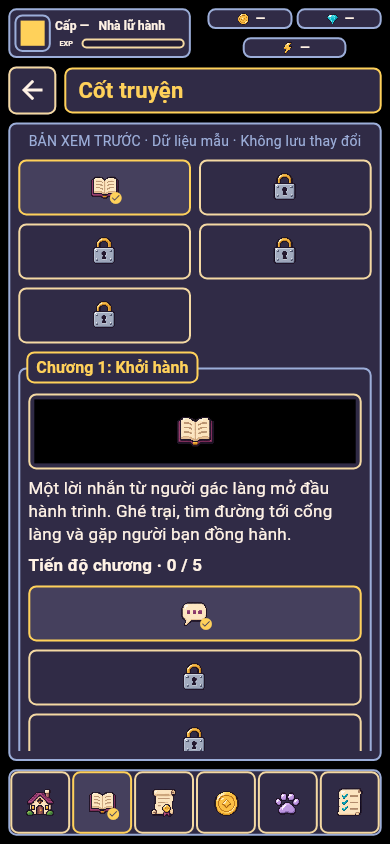
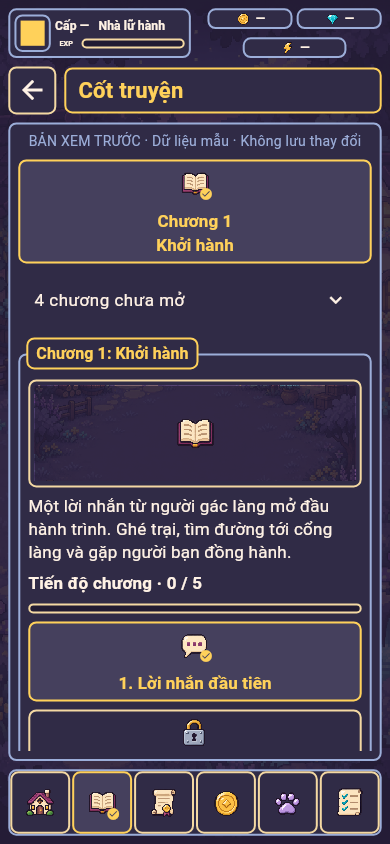
feat: make story chapters readable at a glance
Show names on content cards while preserving compact HUD controls. Collapse locked chapters so the current story stays near the top on phones, and reuse the twilight vignette with a clear progress track.

diff --git a/lib/features/story/presentation/story_screen.dart b/lib/features/story/presentation/story_screen.dart
@@ -21,22 +21,38 @@ class StoryScreen extends StatelessWidget {
     selected: 'story',
     onNavigate: onNavigate,
     child: MenuColumns(
-      leading: MenuGrid(
+      leading: Column(
+        crossAxisAlignment: CrossAxisAlignment.stretch,
+        spacing: 8,
         children: [
-          for (final (index, title) in const [
-            'Khởi hành',
-            'Bên kia đồi',
-            'Lối mòn cũ',
-            'Chân trời mới',
-            'Lời kết',
-          ].indexed)
-            MenuButton(
-              label:
-                  'Chương ${index + 1}\n$title${index == 0 ? '' : '\nĐã khóa'}',
-              icon: index == 0 ? PixelIconKind.story : PixelIconKind.lock,
-              selected: index == 0,
-              onPressed: index == 0 ? () => onNavigate('story') : null,
-            ),
+          MenuButton(
+            label: 'Chương 1\nKhởi hành',
+            icon: PixelIconKind.story,
+            showLabel: true,
+            selected: true,
+            onPressed: () => onNavigate('story'),
+          ),
+          ExpansionTile(
+            title: const Text('4 chương chưa mở'),
+            children: [
+              MenuGrid(
+                children: [
+                  for (final (index, title) in const [
+                    'Bên kia đồi',
+                    'Lối mòn cũ',
+                    'Chân trời mới',
+                    'Lời kết',
+                  ].indexed)
+                    MenuButton(
+                      label: 'Chương ${index + 2}\n$title\nĐã khóa',
+                      showLabel: true,
+                      icon: PixelIconKind.lock,
+                      onPressed: null,
+                    ),
+                ],
+              ),
+            ],
+          ),
         ],
       ),
       detail: MenuPanel(
@@ -50,6 +66,7 @@ class StoryScreen extends StatelessWidget {
               'Một lời nhắn từ người gác làng mở đầu hành trình. Ghé trại, tìm đường tới cổng làng và gặp người bạn đồng hành.',
             ),
             const Text('Tiến độ chương · 0 / 5', style: GameTypography.heading),
+            const PixelProgress(value: 0, label: 'Tiến độ chương mẫu'),
             for (final (index, title) in const [
               'Lời nhắn đầu tiên',
               'Dấu vết bên đường',
@@ -59,6 +76,7 @@ class StoryScreen extends StatelessWidget {
             ].indexed)
               MenuButton(
                 label: '${index + 1}. $title${index == 0 ? '' : ' · Đã khóa'}',
+                showLabel: true,
                 icon: index == 0 ? PixelIconKind.talk : PixelIconKind.lock,
                 selected: index == 0,
                 onPressed: index == 0 ? onStart : null,

diff --git a/lib/app/presentation/menu_button.dart b/lib/app/presentation/menu_button.dart
@@ -13,12 +13,16 @@ class MenuButton extends StatelessWidget {
     this.selected = false,
     this.icon,
     this.artworkScale = 1,
+    this.showLabel = false,
     super.key,
   });
   final String label;
   final VoidCallback? onPressed;
   final bool selected;
   final PixelIconKind? icon;
+
+  /// Content cards show names; compact HUD actions keep tooltip-only labels.
+  final bool showLabel;
 
   /// Scales the icon only; border geometry compensates for the outer projection.
   final double artworkScale;
@@ -28,7 +32,7 @@ class MenuButton extends StatelessWidget {
     message: label,
     excludeFromSemantics: true,
     child: Semantics(
-      label: icon == null ? null : label,
+      label: icon == null || showLabel ? null : label,
       selected: selected,
       child: TextButton(
         style: TextButton.styleFrom(
@@ -48,16 +52,23 @@ class MenuButton extends StatelessWidget {
         onPressed: onPressed,
         child: icon == null
             ? Text(label, textAlign: TextAlign.center)
-            : Stack(
-                alignment: Alignment.center,
+            : Column(
+                mainAxisSize: MainAxisSize.min,
+                spacing: 8,
                 children: [
-                  PixelIcon(icon!, size: 36 * artworkScale),
-                  if (selected)
-                    const Positioned(
-                      right: 0,
-                      bottom: 0,
-                      child: Icon(Icons.check_circle, size: 14),
-                    ),
+                  Stack(
+                    alignment: Alignment.center,
+                    children: [
+                      PixelIcon(icon!, size: 36 * artworkScale),
+                      if (selected)
+                        const Positioned(
+                          right: 0,
+                          bottom: 0,
+                          child: Icon(Icons.check_circle, size: 14),
+                        ),
+                    ],
+                  ),
+                  if (showLabel) Text(label, textAlign: TextAlign.center),
                 ],
               ),
       ),

diff --git a/lib/app/presentation/menu_preview.dart b/lib/app/presentation/menu_preview.dart
@@ -2,8 +2,9 @@ import 'package:flutter/material.dart';
 
 import 'pixel/pixel_frame.dart';
 import 'pixel/pixel_icon.dart';
+import 'village_backdrop.dart';
 
-/// A bounded scene placeholder using the same black window as Home's minimap.
+/// Compact illustrated chapter vignette with a foreground atlas emblem.
 class MenuPreview extends StatelessWidget {
   const MenuPreview({required this.icon, super.key});
   final PixelIconKind icon;
@@ -12,10 +13,15 @@ class MenuPreview extends StatelessWidget {
   Widget build(BuildContext context) => PixelFrame(
     padding: const EdgeInsets.all(4),
     child: SizedBox(
-      height: 64,
-      child: ColoredBox(
-        color: Colors.black,
-        child: Center(child: PixelIcon(icon, size: 48)),
+      height: 96,
+      child: ClipRect(
+        child: Stack(
+          fit: StackFit.expand,
+          children: [
+            const VillageBackdrop(dimmed: true),
+            Center(child: PixelIcon(icon, size: 48)),
+          ],
+        ),
       ),
     ),
   );

diff --git a/test/app/presentation/menu_button_test.dart b/test/app/presentation/menu_button_test.dart
@@ -5,6 +5,28 @@ import 'package:pixel_rpg/app/presentation/pixel/pixel_icon.dart';
 import 'package:pixel_rpg/app/theme/app_theme.dart';
 
 void main() {
+  testWidgets('content cards expose their names before interaction', (
+    tester,
+  ) async {
+    var opened = false;
+    await tester.pumpWidget(
+      MaterialApp(
+        theme: appTheme,
+        home: Scaffold(
+          body: MenuButton(
+            label: 'Chương 1\nKhởi hành',
+            icon: PixelIconKind.story,
+            showLabel: true,
+            onPressed: () => opened = true,
+          ),
+        ),
+      ),
+    );
+    expect(find.text('Chương 1\nKhởi hành'), findsOneWidget);
+    await tester.tap(find.text('Chương 1\nKhởi hành'));
+    expect(opened, isTrue);
+  });
+
   testWidgets(
     'icon controls show artwork and retain an accessible action name',
     (tester) async {

diff --git a/docs/art/ui-guidelines.md b/docs/art/ui-guidelines.md
@@ -44,9 +44,9 @@ hiển thị và gửi callback; feature giữ nội dung và state trình bày,
 | `PixelNavigation` | Sáu mục cùng vị trí neo đáy với Home; một khay `cool`, nút icon 36 dp bo 8 dp; mục đang chọn có viền vàng và dấu tick. |
 | `MenuShell` | HUD trên, tiêu đề/quay lại/thông báo xem trước, cửa sổ nội dung giữa và navigation dưới. Chỉ nội dung giữa cuộn. |
 | `MenuPanel` | Thân `cool` tím than với tab tiêu đề `gold` nổi như panel Home. `light: true` dùng thân giấy và chữ tối cho nội dung đọc. |
-| `MenuButton` | Viền kem 2 dp, góc bo 8 dp, nền tím; có icon thì chỉ hiện icon 36 dp, tên đầy đủ qua tooltip/semantics. Không có icon thì giữ nhãn chữ 17 dp. Mục chọn có viền vàng và tick; mục khóa giữ icon khóa. |
+| `MenuButton` | Viền kem 2 dp, góc bo 8 dp, nền tím; có icon thì mặc định hiện icon 36 dp; thẻ nội dung dùng `showLabel` để hiện tên, còn HUD/hành động compact giữ tooltip/semantics. Không có icon thì giữ nhãn chữ 17 dp. Mục chọn có viền vàng và tick; mục khóa giữ icon khóa. |
 | `MenuGrid` | Chia ô đều và căn cùng chiều cao từng hàng; bớt cột khi chữ lớn. Hàng cuối giữ cùng bề rộng ô; bốn chỉ số tránh bố cục 3+1. |
-| `MenuPreview` | Cửa sổ cảnh đen gọn giống minimap, icon 48 dp; không tạo banner lớn chỉ để lấp chỗ. |
+| `MenuPreview` | Cửa sổ làng hoàng hôn cao 96 dp, phủ tím than và icon 48 dp; không tạo banner lớn chỉ để lấp chỗ. |
 | `PixelProgress` | Thanh EXP cùng mẫu viền 2 dp/góc 8 dp, nền tối và fill vàng như HUD. |
 
 Không sao chép shell/HUD/frame vào feature mới. Nếu thiếu một biến thể thực
@@ -100,8 +100,9 @@ bao gồm nút đóng dialog. Ba nút hành động Home dùng chính `MenuButto
 
 Nội dung menu 17 dp, line height 1.35; tiêu đề màn 22 dp đậm; tab tiêu đề
 panel 16 dp; nút chữ 17 dp. Navigation chỉ hiện icon 36 dp. Icon atlas giữ nền trong
-suốt và không có lớp nền/viền bọc riêng; các nút icon không hiện chữ, vẫn có
-tooltip và semantics.
+suốt và không có lớp nền/viền bọc riêng; các nút icon compact không hiện chữ, vẫn có
+tooltip và semantics. Thẻ chương/đoạn truyện hiển thị tên và trạng thái khóa,
+không bắt người chơi đoán nội dung từ icon.
 Home dùng ba nút hành động icon lớn, không có nhãn; phần chữ nội dung không
 phụ thuộc hệ số artwork. Chữ dài trong nội dung và nút xuống dòng, tăng chiều cao và cuộn được.
 Tôn trọng text scaling 1×/2×. `PixelLabel` chỉ fit nhãn HUD compact trong slot cố định; không fit tiêu đề
@@ -159,3 +160,9 @@ tranh nhưng phủ tím than 86% để chữ rõ. Nhân vật là portrait pixel
 không có animation hoặc trạng thái gameplay. Giữ nguyên khung 2/8 dp, màu sẵn
 và neo HUD/navigation. Chạy `flutter test tool/preview_ui_test.dart` để cập nhật
 ảnh; thêm `--dart-define=EXTENDED=true` để rà đủ kích thước/chữ lớn.
+
+Cốt truyện dùng thẻ icon kèm tên chương/đoạn, khóa hiển thị cả chữ và icon.
+Thanh tiến độ đặt dưới mô tả chương; cảnh minh họa nhỏ dùng lại tranh Home.
+
+Ở Cốt truyện, chương hiện tại luôn hiện; các chương khóa nằm trong mục mở rộng
+để không đẩy mô tả và nút bắt đầu quá xa trên điện thoại.

diff --git a/docs/art/reusable-ui-concept.md b/docs/art/reusable-ui-concept.md
@@ -13,7 +13,7 @@ và prompt** cho các component tái sử dụng.
 Màn hình chính tại `lib/features/home/presentation/` dùng palette và bố cục
 Home với khung code chung: viền 2 dp, góc 8 dp từ `GameSurfaceStyle`.
 `ArtworkProjection` bù scale để HUD, panel, nút và dialog có cùng hình học.
-Sau loading 3 giây, app chuyển sang Home; cảnh đen, nhân vật vàng tạm,
+Sau loading 3 giây, app chuyển sang Home; cảnh làng hoàng hôn tĩnh, portrait nhà lữ hành vẽ bằng code,
 chưa có gameplay. Sáu skin chỉ đổi màu/nền. Chữ là widget riêng; 18 icon dùng
 atlas trong suốt `assets/ui/icon-atlas.png`. Atlas khung cũ giữ làm tư liệu art,
 không còn đóng gói runtime. Các quy tắc generate bên dưới là art direction,
@@ -27,7 +27,7 @@ vẫn là định hướng cho những component chi tiết chưa tạo.
 neo trái, tài nguyên/minimap neo phải, hội thoại/nút hành động/thanh dưới neo
 ở giữa. Nhiệm vụ luôn xếp dọc; minimap luôn hiện; sáu mục điều hướng luôn trên
 một hàng. Khi xoay ngang, các cụm dịch sang cạnh hoặc giữ trục giữa, không
-kéo giãn hay thu nhỏ theo chiều cao. Nền đen nhận phần không gian dư.
+kéo giãn hay thu nhỏ theo chiều cao. Tranh làng nhận phần không gian dư.
 `HomeLayout` mở rộng `GameChromeLayout` dùng đơn vị thiết kế theo chiều rộng ảnh mẫu 940; hệ số chung
 được chặn ở 390/940 và chỉ giảm theo chiều ngắn thiết bị nhỏ hơn 390 dp.
 Khoảng cách giữa các cụm được thu gọn trên cửa sổ thấp, hẹp; kích thước khung
@@ -330,7 +330,7 @@ Các cụm trên được đặt tiếp nhau theo cạnh panel và gap, tránh t
 
 Footer dùng cùng khoảng 2 bước giữa hội thoại, hành động và điều hướng;
 cửa sổ thấp, hẹp không đủ chỗ đặt footer cạnh HUD dùng 1 bước. Các panel vẫn
-cùng kích thước khi xoay. Nút có icon chỉ hiện icon lớn căn giữa, trong suốt không viền riêng;
+cùng kích thước khi xoay. Nút compact có icon lớn căn giữa; thẻ nội dung hiện thêm tên qua `showLabel`. Icon trong suốt không viền riêng;
 viền kem bo mềm chỉ bao quanh nút; nhãn giữ trong
 tooltip/semantics, trạng thái chọn có dấu tick. Nút chữ giữ nhãn căn giữa,
 các ô điều hướng có padding và hàng nội dung giống nhau dù đang chọn hay chưa.

diff --git a/README.md b/README.md
@@ -99,9 +99,8 @@ Android application ID: `com.jinshu.pixel_rpg`.
   hộp thông tin vẫn dùng cỡ chữ hệ thống và cuộn nội dung khi cần.
   Khoảng cách dùng lưới chung `GameSpacing` khoảng 4 dp/bước: lề an toàn và
   khoảng giữa cụm khoảng 8 dp, footer cửa sổ thấp dùng khoảng 4 dp. Nội dung
-  nút có icon chỉ hiển thị icon lớn trên nền trong suốt, chỉ nút có viền kem
-  bo mềm; tên giữ trong tooltip và
-  semantics. Nội dung menu 17 dp, tiêu đề 22 dp; padding các ô điều hướng đồng nhất. Xem
+  nút compact có icon lớn và tên qua tooltip/semantics; thẻ nội dung hiện
+  cả icon và tên bằng `showLabel`. Viền kem bo mềm thuộc nút, icon không có viền riêng. Nội dung menu 17 dp, tiêu đề 22 dp; padding các ô điều hướng đồng nhất. Xem
   [quy ước spacing](docs/art/reusable-ui-concept.md#9-quy-ước-spacing-runtime-mobile).
   Mọi khung/nút/dialog/EXP dùng `GameSurfaceStyle` (viền 2 dp, góc 8 dp).
   `ArtworkProjection` bù scale HUD để giữ cùng độ dày/độ cong trên màn hình.

diff --git a/.claude/skills/project-knowledge/SKILL.md b/.claude/skills/project-knowledge/SKILL.md
@@ -58,8 +58,9 @@ and future HTTP adapters. Core owns game rules and state transitions; platform
 adapters handle local saves when progression is introduced. Offline remains in
 scope; online synchronization and conflicts are undecided.
 
-UI dùng chữ nội dung menu 17 dp, tiêu đề 22 dp. Nút có icon chỉ hiện icon lớn
-trong suốt, không nền/viền bọc icon; viền kem bo mềm chỉ thuộc nút; tên giữ qua tooltip/semantics. Nút không có icon giữ chữ.
+UI dùng chữ nội dung menu 17 dp, tiêu đề 22 dp. Nút compact chỉ hiện icon lớn
+trong suốt và tên qua tooltip/semantics; thẻ nội dung bật `showLabel` để hiện tên.
+Không nền/viền bọc icon; viền kem bo mềm chỉ thuộc nút. Nút không có icon giữ chữ.
 
 Font `GameRoboto` được đóng gói cùng app (regular/medium/bold và giấy phép),
 không phụ thuộc font hệ điều hành hoặc mạng. `GameTypography`/`appTheme` sở hữu
